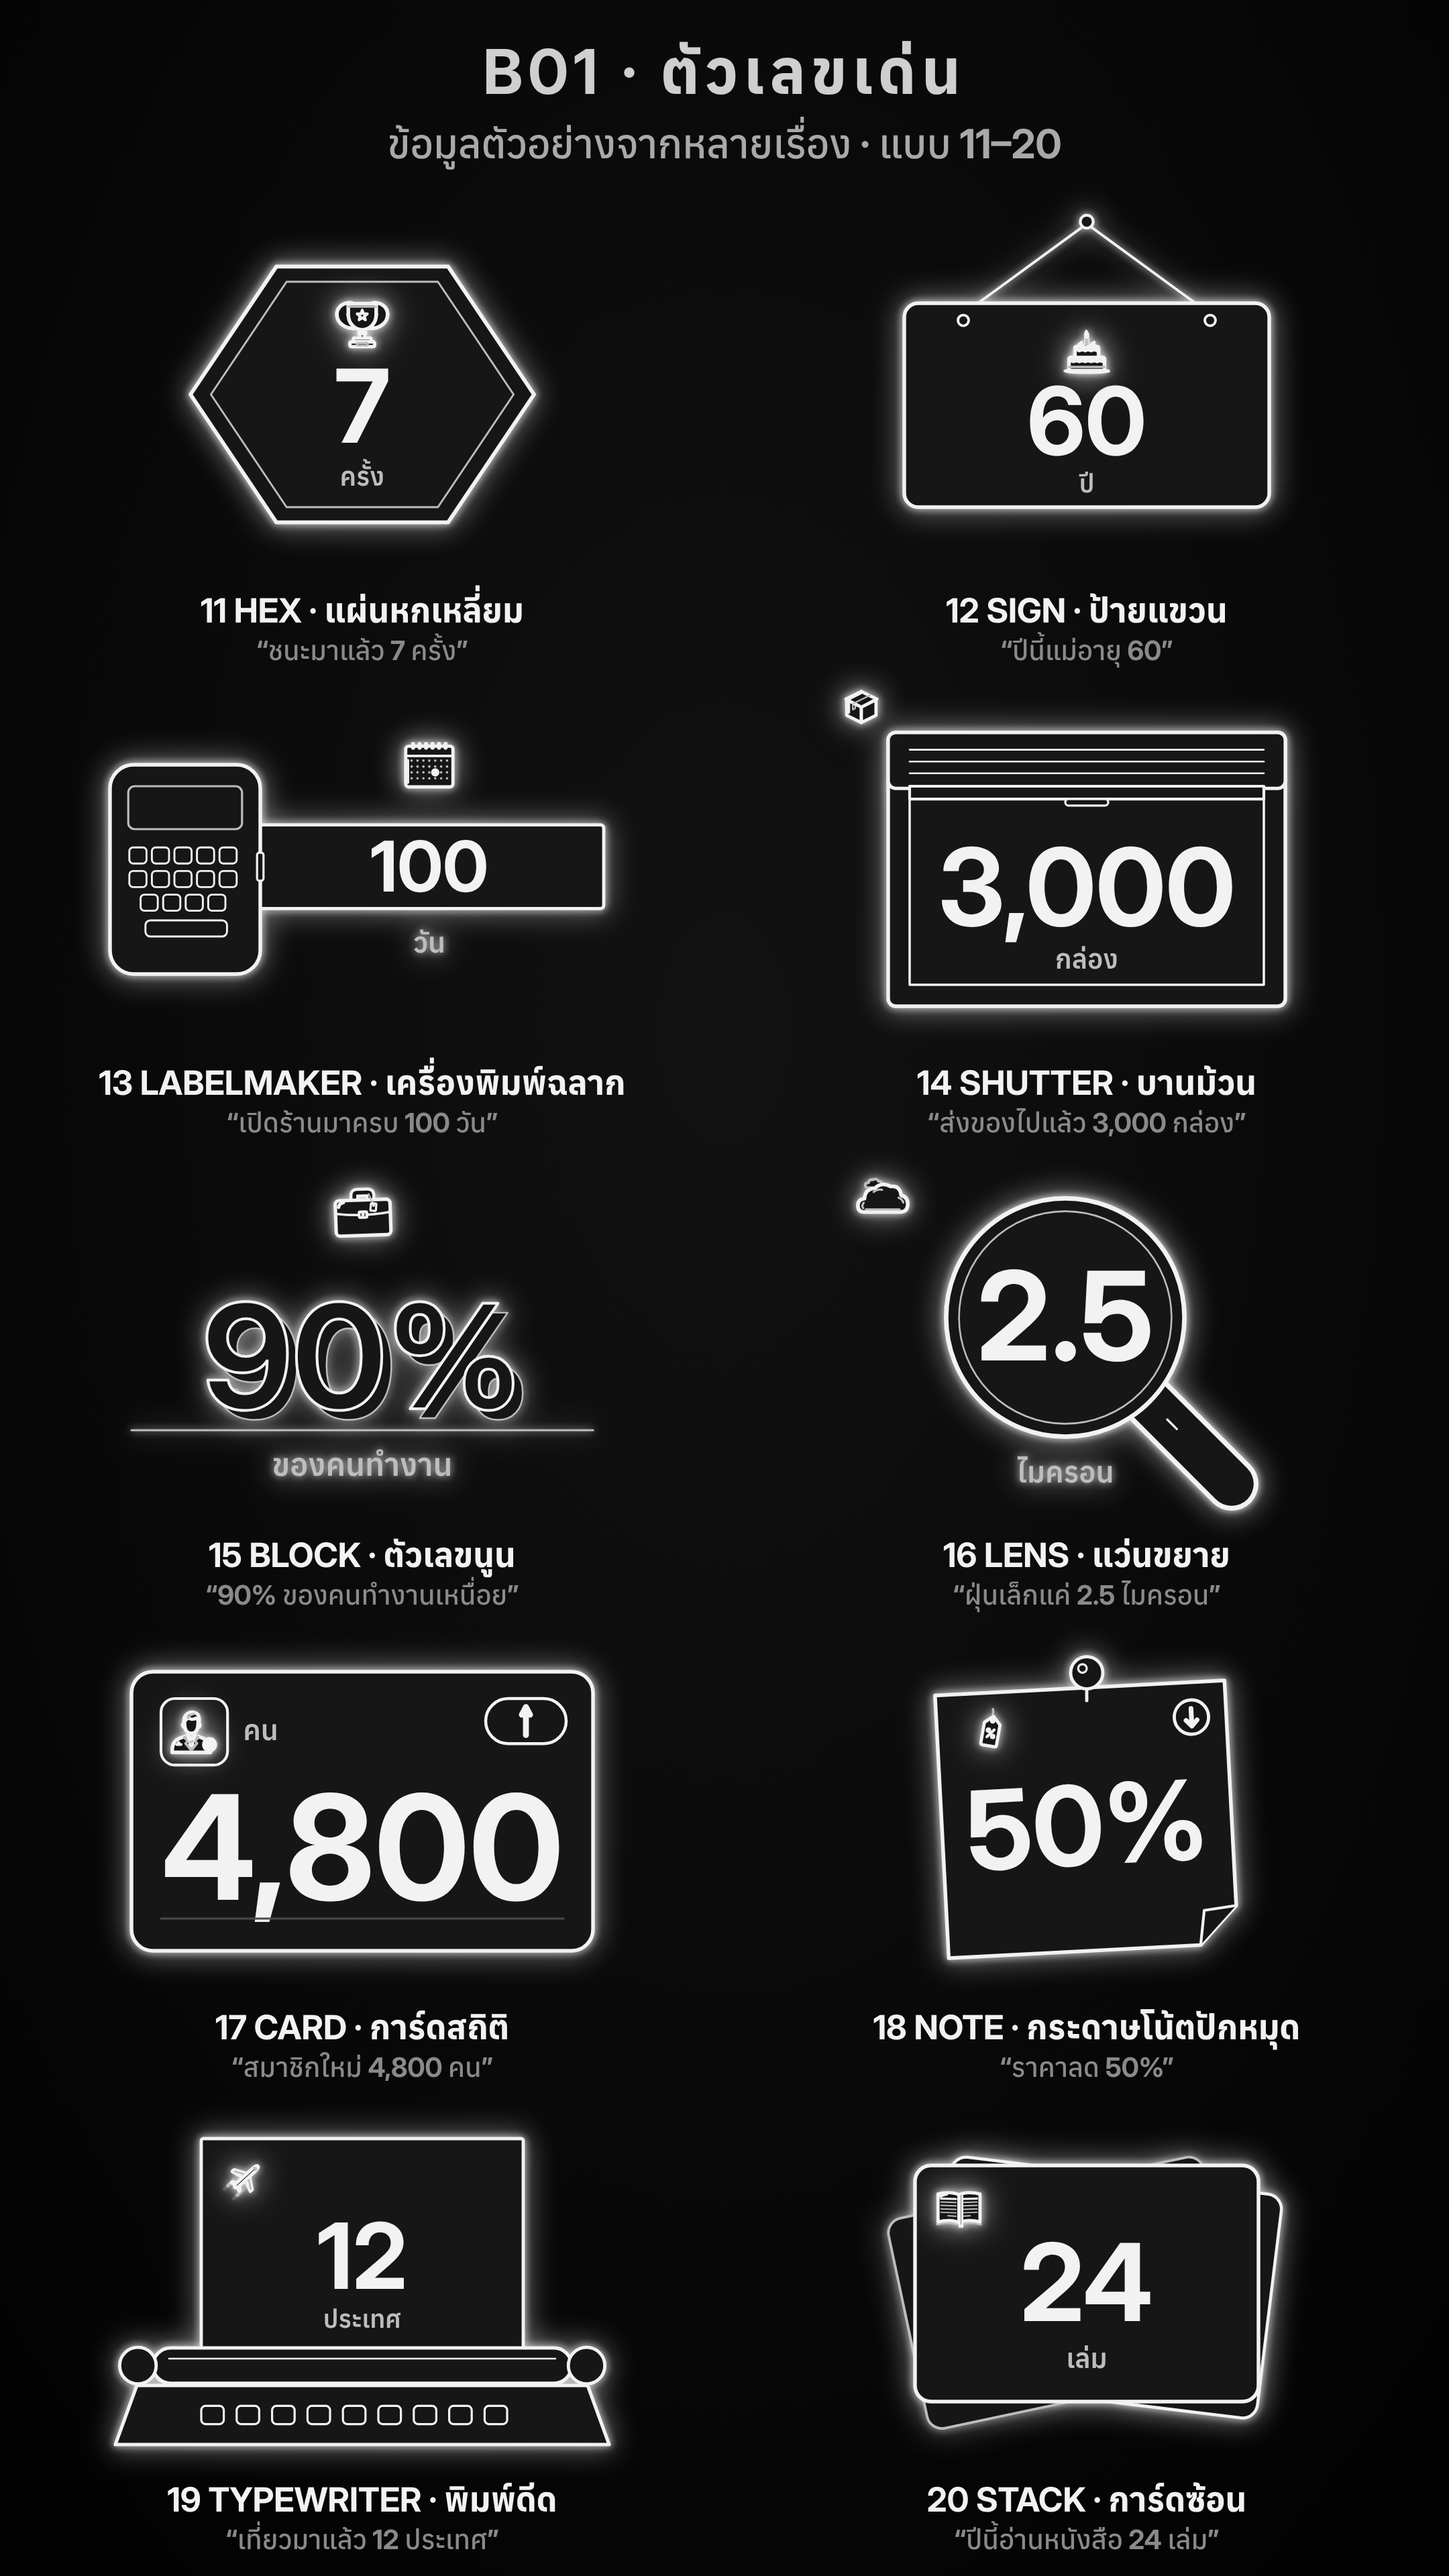
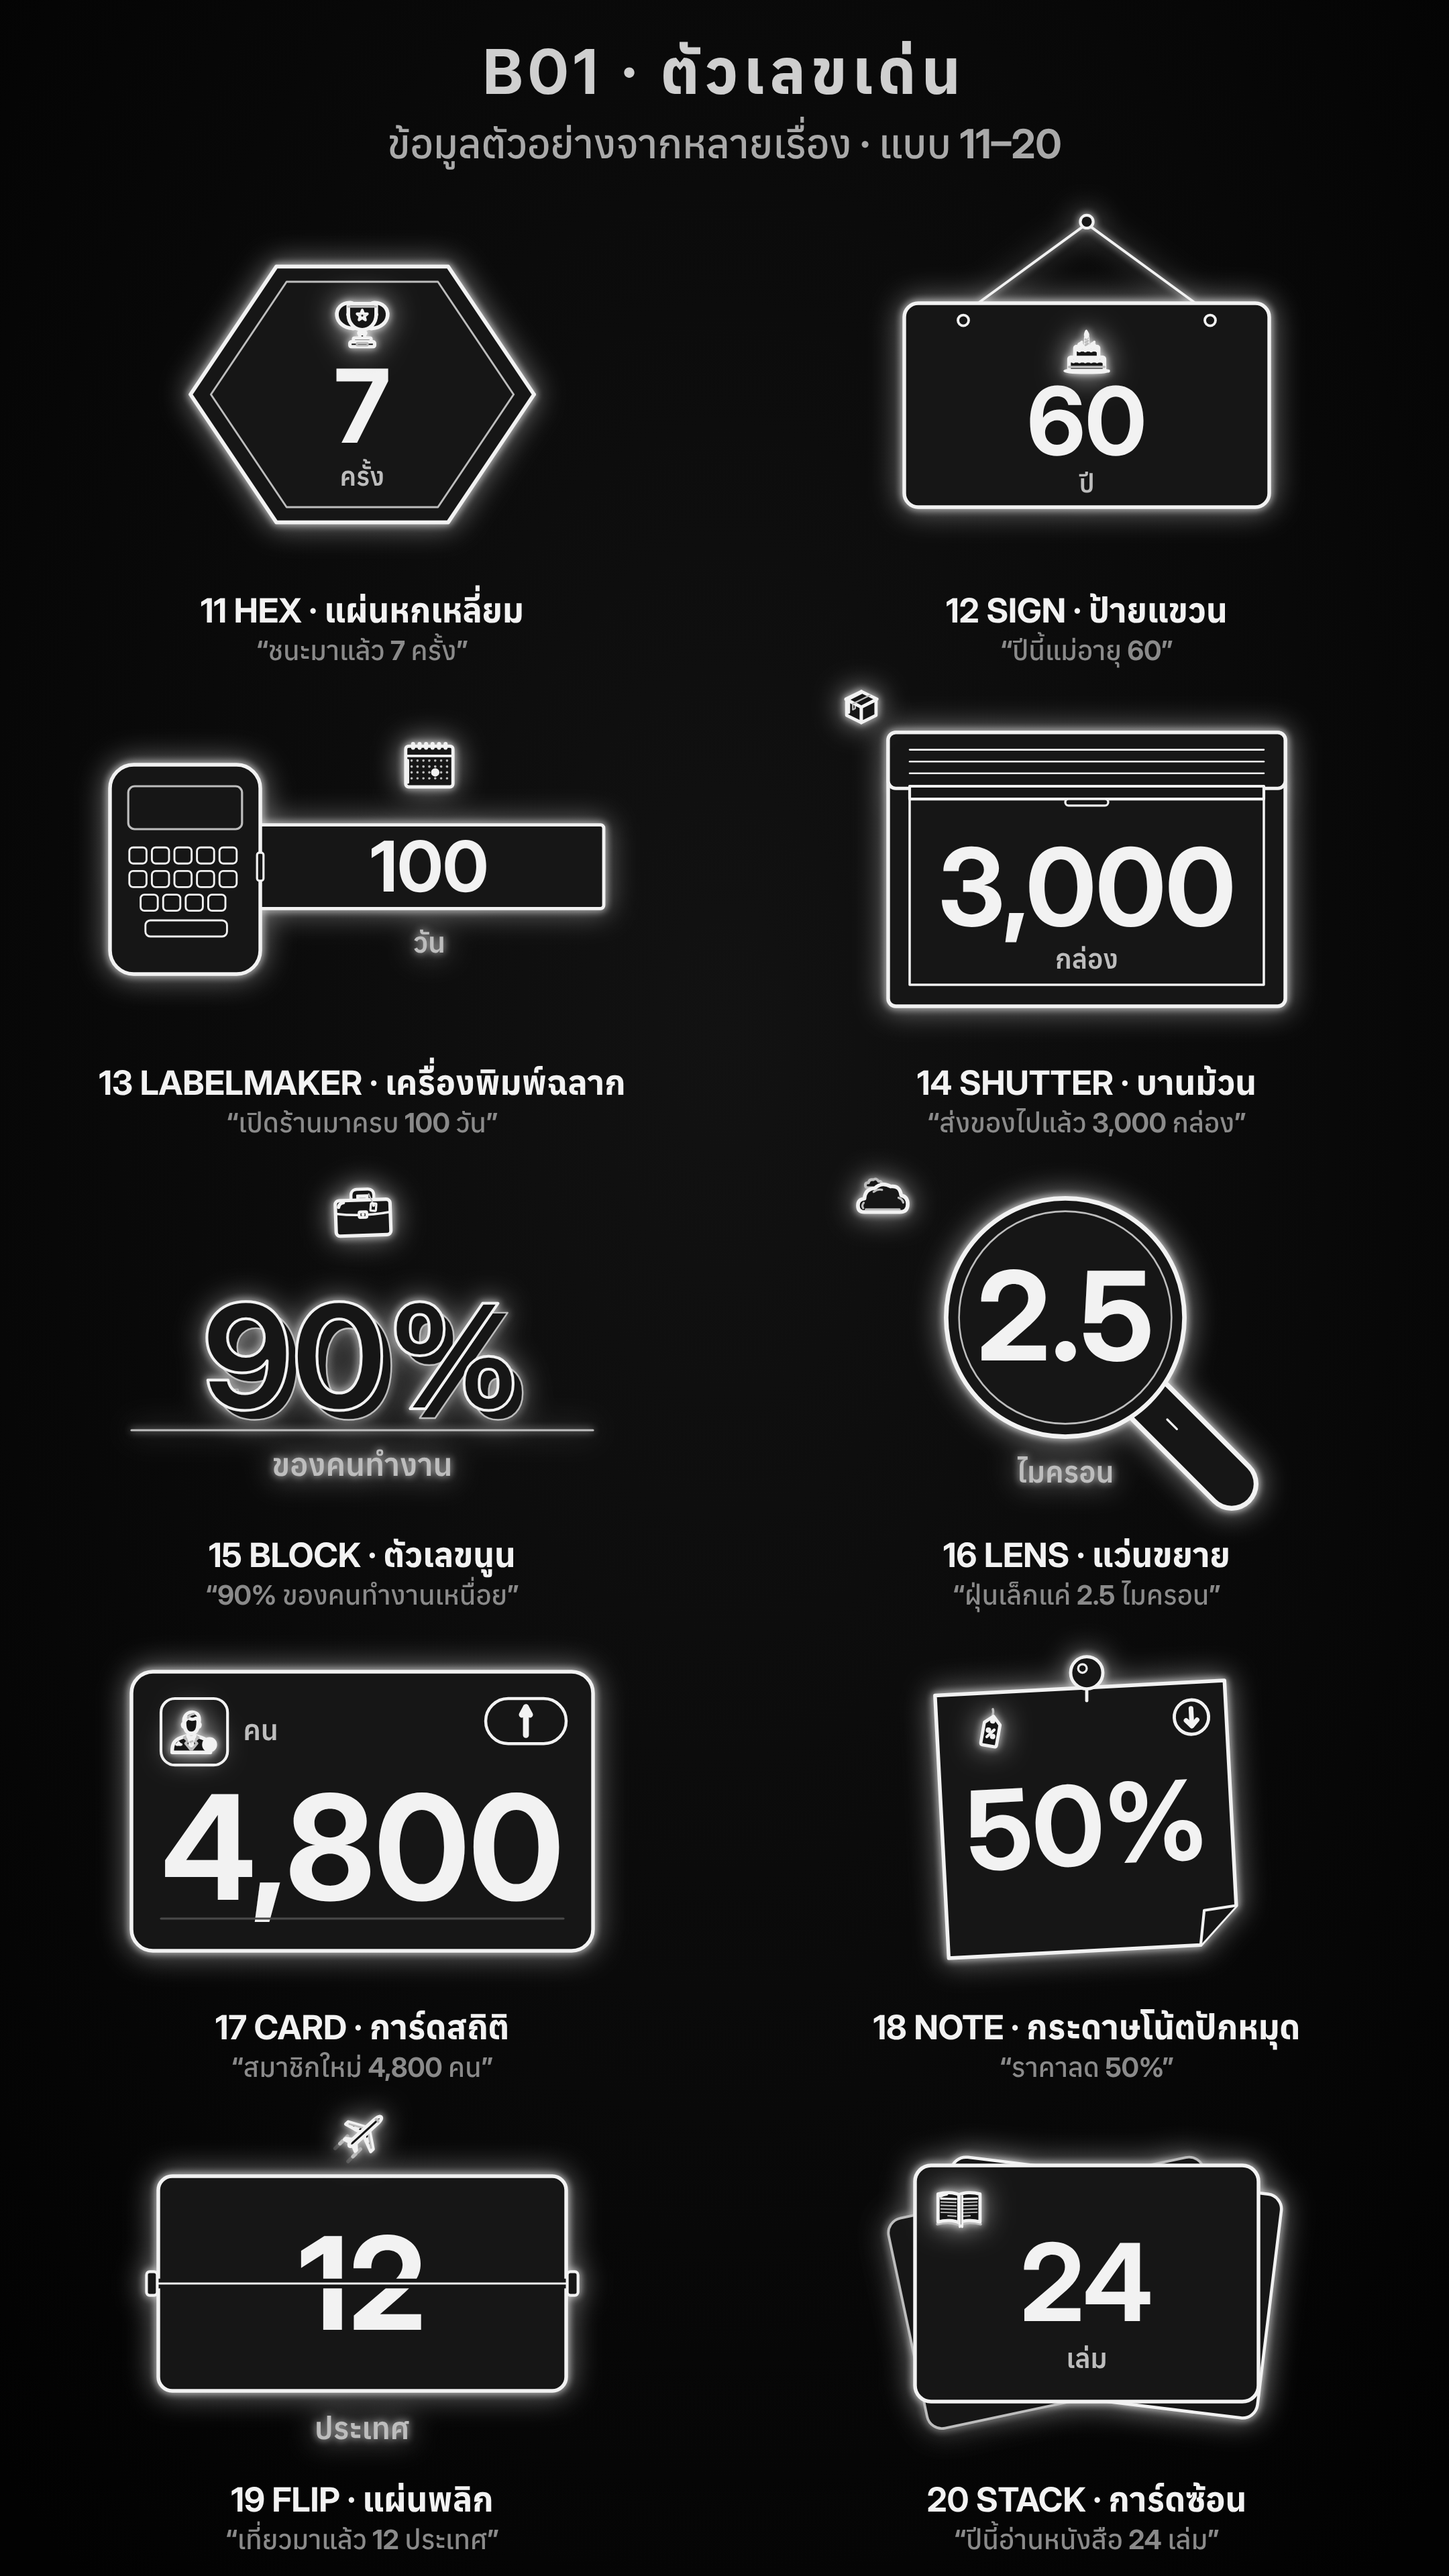
glow-line-motion: B01 design 19 = split-flap tile (user changed pick from typewriter)
Claude-Session: https://claude.ai/code/session_01S8EfU7fAEGeBWyNc1CqSTP

Changed region(s): [[0.062, 0.8125, 0.4343, 1.0]]

diff --git a/.claude/skills/glow-line-motion/examples/b01/b01.js b/.claude/skills/glow-line-motion/examples/b01/b01.js
@@ -345,19 +345,18 @@
     icon(d, -175, -150, 82, c);
   });
 
-  /* 19 ── TYPEWRITER: the number has been typed on a sheet that sits in the platen roller (user's pick over ORBIT, 2026-11-12) */
-  variant('typewriter', 'พิมพ์ดีด', (d, c) => {
+  /* 19 ── FLIP: one big split-flap tile — a hinge line runs through the middle of the number (user's pick, 2026-11-13;
+     first offered for 14, then chosen for 19 over typewriter) */
+  variant('flip', 'แผ่นพลิก', (d, c) => {
     art(c, p => {
-      p.path('M -420 190 L 420 190 L 460 300 L -460 300 Z', F(3.2));
-      for (let i = 0; i < 9; i++) p.rect(-300 + i * 66, 228, 42, 34, Object.assign({ rx: 8 }, F(2)));
-      p.rect(-300, -270, 600, 420, Object.assign({ rx: 4 }, F(3)));
-      p.rect(-390, 120, 780, 66, Object.assign({ rx: 33 }, F(3.2))); [-1, 1].forEach(sd => p.circle(sd * 418, 153, 34, F(3)));
-      p.line(-360, 140, 360, 140, W(1.6));
-      txt(p, d.value, 0, d.unit ? 10 : 30, { size: 170, maxW: 520 });
-      if (d.unit) txt(p, d.unit, 0, 82, { size: 46, weight: 600, color: C.soft, maxW: 500 });
-      dirBadge(p, d.dir, 300, -270, 32);
+      p.rect(-380, -200, 760, 400, Object.assign({ rx: 26 }, F(3.4)));
+      const t = txt(p, d.value, 0, 86, { size: 240, maxW: 660 }); t.e.setAttribute('y', f1(t.size * .36));
+      p.line(-380, 0, 380, 0, { sw: 9, stroke: C.fill }); p.line(-380, 0, 380, 0, W(2));
+      [-1, 1].forEach(sd => p.rect(sd * 392 - 10, -22, 20, 44, Object.assign({ rx: 6 }, F(2.6))));
+      if (d.unit) txt(p, d.unit, 0, 290, { size: 56, weight: 600, color: C.soft, maxW: 740 });
+      dirBadge(p, d.dir, 380, -200, 32);
     });
-    icon(d, -220, -195, 80, c);
+    icon(d, 0, -278, 110, c);
   });
 
   /* 20 ── STACK: a fan of three cards, the number on the front one */

diff --git a/.claude/skills/glow-line-motion/HANDOFF.md b/.claude/skills/glow-line-motion/HANDOFF.md
@@ -38,7 +38,8 @@
   รสนิยมที่เห็น: เลือก **ของในชีวิตประจำวันที่มีกลไก** (กระดาษโน้ตปักหมุด, บานม้วน); ไม่เลือก: burst cube orbit ribbon neon marker letterboard iris scroll plinth flip.
   → รอบ 2 เสนอ 19: stamp / typewriter / dots และ 13: labelmaker / sticker / tent → ผู้ใช้ **"19 b 13 a"** →
   แบบ 19 = `typewriter` พิมพ์ดีด · แบบ 13 = `labelmaker` เครื่องพิมพ์ฉลาก (orbit, ribbon ลบแล้ว).
-- **ตอนนี้ 20 แบบ:** hero drum lcd gauge ring bar ruler column frame spotlight hex sign labelmaker shutter block lens card note typewriter stack.
+- ผู้ใช้เปลี่ยนใจ (2026-11-13): **"19 อยากได้เป็นอันนี้"** + ภาพ "C · แผ่นพลิก" (ตัวเลือก C ของรอบแบบ 14) → แบบ 19 = `flip` แผ่นพลิก (typewriter ลบแล้ว).
+- **ตอนนี้ 20 แบบ:** hero drum lcd gauge ring bar ruler column frame spotlight hex sign labelmaker shutter block lens card note flip stack.
   แผ่นทั้ง 4 อัปเดตแล้ว. **รอผู้ใช้ตอบว่าภาพนิ่งทั้ง 20 "ผ่าน"** → แล้วค่อยใส่ท่าขยับ 3–4 จังหวะทีละแบบ + วิดีโอ.
 
 ## ✅ ตัวปรับท่าขยับกลาง — ทำเสร็จแล้ว (2026-11-12) · ผู้ใช้ตอบ **"ผ่าน"**
